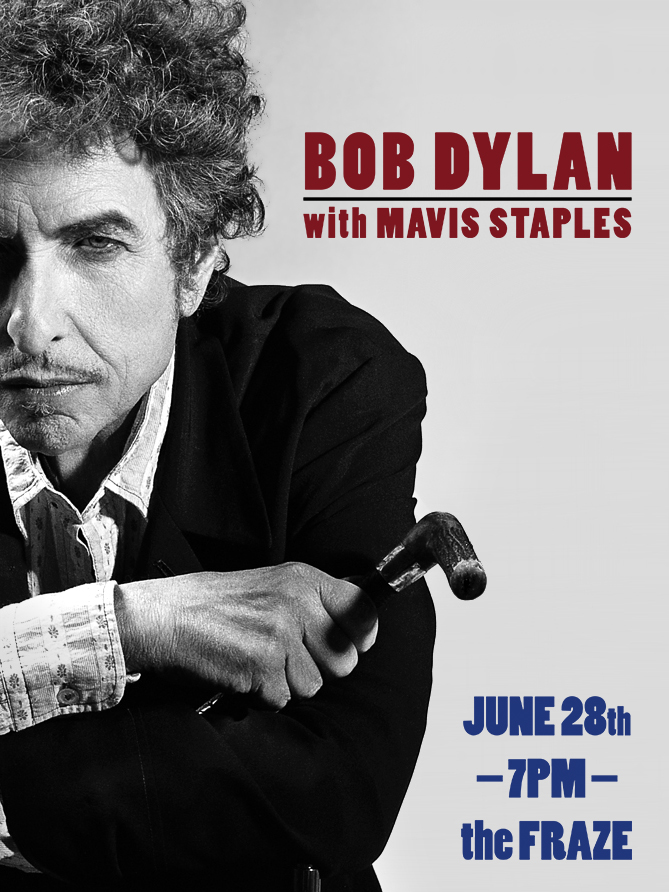
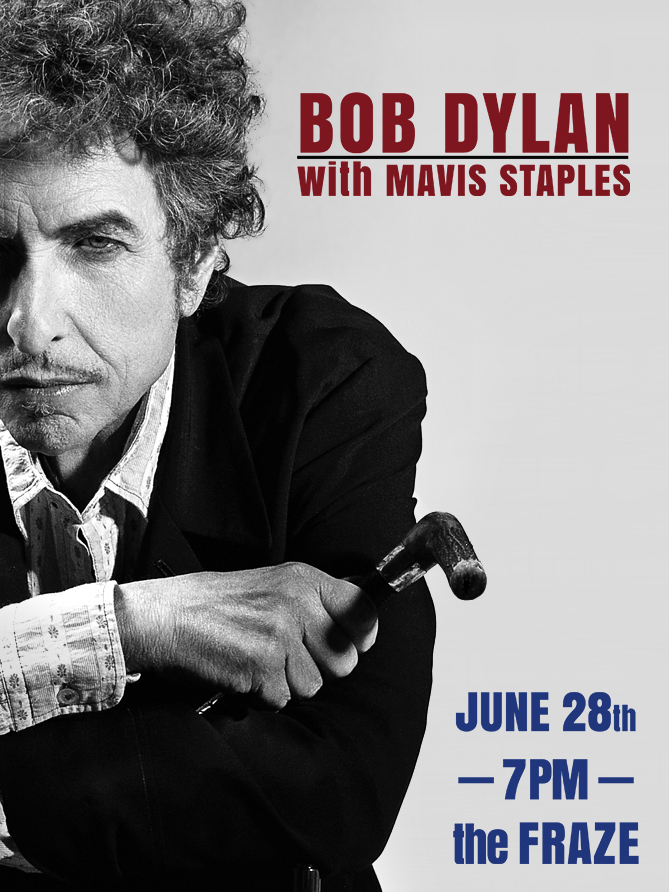
update: changed the .css and .less files and updated the graphics.

Changed region(s): [[0.4484, 0.0908, 0.9567, 0.2724], [0.6577, 0.7567, 0.9567, 0.9686]]

diff --git a/styles.css b/styles.css
@@ -1,4 +1,6 @@
 @import 'https://fonts.googleapis.com/css?family=Anton|Roboto+Condensed:300,400,700|Roboto:300,300i,400,400i,500,500i,700,700i';
+
+
 body {
   width: 669px;
   margin: 0 auto;
@@ -37,10 +39,13 @@ body:after {
 .frame img {
   float: left;
 }
+.form h2{
+    font-size: 25pt;
+}
 h1 {
   float: left;
   margin: 0;
-  width: 519px;
+  width: 495px;
   text-align: center;
 }
 h1 img {
@@ -61,7 +66,10 @@ hr {
 }
 .header .arrow img {
   height: auto;
-  width: 75px;
+  width: 65px;
+  margin-top: 10px;
+  margin-right: 10px;
+  margin-left: 10px;
 }
 .header .back_button {
   float: left;
@@ -86,6 +94,7 @@ img {
   height: 300px;
   width: 250px;
 }
+
 p {
   color: #000000;
   font-family: 'Roboto', sans-serif;

diff --git a/styles.less b/styles.less
@@ -48,11 +48,14 @@ body{
         float: left;
     }
 }
+.form h2{
+    font-size: 25pt;
+}
 
 h1{
     float: left;
     margin: 0;
-    width: 519px;
+    width: 495px;
     text-align: center;
     
     img{
@@ -74,7 +77,10 @@ hr {
         
     .arrow img{
         height: auto;
-        width: 75px;
+        width: 65px;
+        margin-top: 10px;
+        margin-right: 10px;
+        margin-left: 10px;
     }
     
     .back_button{
@@ -85,7 +91,6 @@ hr {
         float: right;
     }    
 }
-
 hr{
     margin: 35px 0px 35px 0px;
     color: #000000;
@@ -121,7 +126,6 @@ p{
         display:block;
     }
 }
-
 #screen_1{
     background: #FFFFFF;
 
